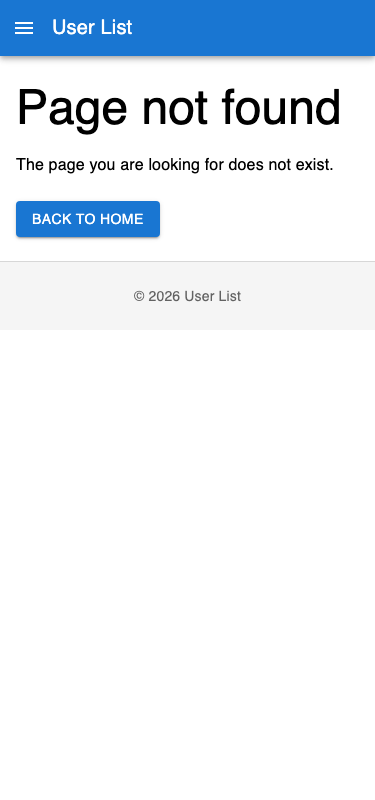
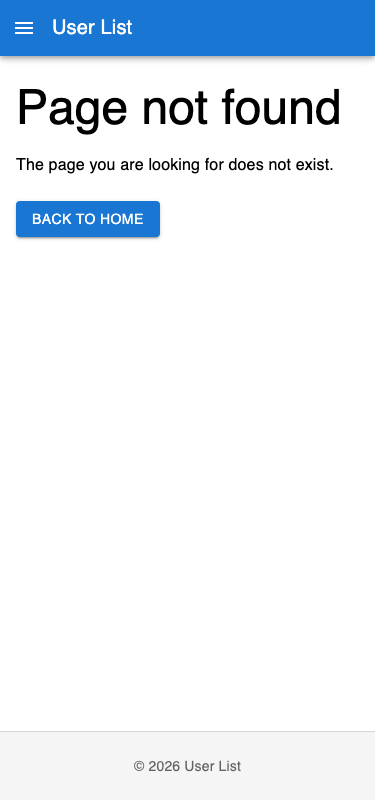
add login page no logic yet

Changed region(s): [[0.352, 0.9375, 0.6453, 0.9688], [0.352, 0.3438, 0.6453, 0.375]]

diff --git a/src/pages/LoginPage.tsx b/src/pages/LoginPage.tsx
@@ -1,0 +1,56 @@
+import { useState, type SubmitEvent } from 'react'
+import Box from '@mui/material/Box'
+import Button from '@mui/material/Button'
+import Paper from '@mui/material/Paper'
+import Stack from '@mui/material/Stack'
+import TextField from '@mui/material/TextField'
+import Typography from '@mui/material/Typography'
+
+function LoginPage() {
+  const [username, setUsername] = useState('')
+  const [password, setPassword] = useState('')
+
+  function handleSubmit(event: SubmitEvent<HTMLFormElement>) {
+    event.preventDefault()
+    // Not wired to the API yet.
+  }
+
+  return (
+    <Box sx={{ display: 'flex', justifyContent: 'center' }}>
+      <Paper variant="outlined" sx={{ p: { xs: 3, sm: 4 }, width: '100%', maxWidth: 400 }}>
+        <Typography variant="h4" component="h1" gutterBottom>
+          Log in
+        </Typography>
+        <Box component="form" onSubmit={handleSubmit} noValidate>
+          <Stack spacing={2}>
+            <TextField
+              label="Username"
+              name="username"
+              autoComplete="username"
+              value={username}
+              onChange={(event) => setUsername(event.target.value)}
+              required
+              fullWidth
+              autoFocus
+            />
+            <TextField
+              label="Password"
+              name="password"
+              type="password"
+              autoComplete="current-password"
+              value={password}
+              onChange={(event) => setPassword(event.target.value)}
+              required
+              fullWidth
+            />
+            <Button type="submit" variant="contained" size="large" fullWidth>
+              Log in
+            </Button>
+          </Stack>
+        </Box>
+      </Paper>
+    </Box>
+  )
+}
+
+export default LoginPage

diff --git a/src/layouts/MainLayout.tsx b/src/layouts/MainLayout.tsx
@@ -1,18 +1,22 @@
 import { Outlet } from 'react-router'
+import Box from '@mui/material/Box'
 import Container from '@mui/material/Container'
 import Footer from '../components/Footer.tsx'
 import Header from '../components/Header.tsx'
 
-/** Shared page shell: header, routed page content, footer. */
+/**
+ * Shared page shell: header, routed page content, footer.
+ * A full-height flex column where `main` grows, so the footer sits at the bottom on short pages.
+ */
 function MainLayout() {
   return (
-    <>
+    <Box sx={{ display: 'flex', flexDirection: 'column', minHeight: '100dvh' }}>
       <Header />
-      <Container component="main" maxWidth="lg" sx={{ py: { xs: 3, md: 5 } }}>
+      <Container component="main" maxWidth="lg" sx={{ flexGrow: 1, py: { xs: 3, md: 5 } }}>
         <Outlet />
       </Container>
       <Footer />
-    </>
+    </Box>
   )
 }
 

diff --git a/src/App.tsx b/src/App.tsx
@@ -2,6 +2,7 @@ import { Route, Routes } from 'react-router'
 import MainLayout from './layouts/MainLayout.tsx'
 import AboutPage from './pages/AboutPage.tsx'
 import HomePage from './pages/HomePage.tsx'
+import LoginPage from './pages/LoginPage.tsx'
 import NotFoundPage from './pages/NotFoundPage.tsx'
 import UsersPage from './pages/UsersPage.tsx'
 
@@ -12,6 +13,7 @@ function App() {
         <Route index element={<HomePage />} />
         <Route path="users" element={<UsersPage />} />
         <Route path="about" element={<AboutPage />} />
+        <Route path="login" element={<LoginPage />} />
         <Route path="*" element={<NotFoundPage />} />
       </Route>
     </Routes>
